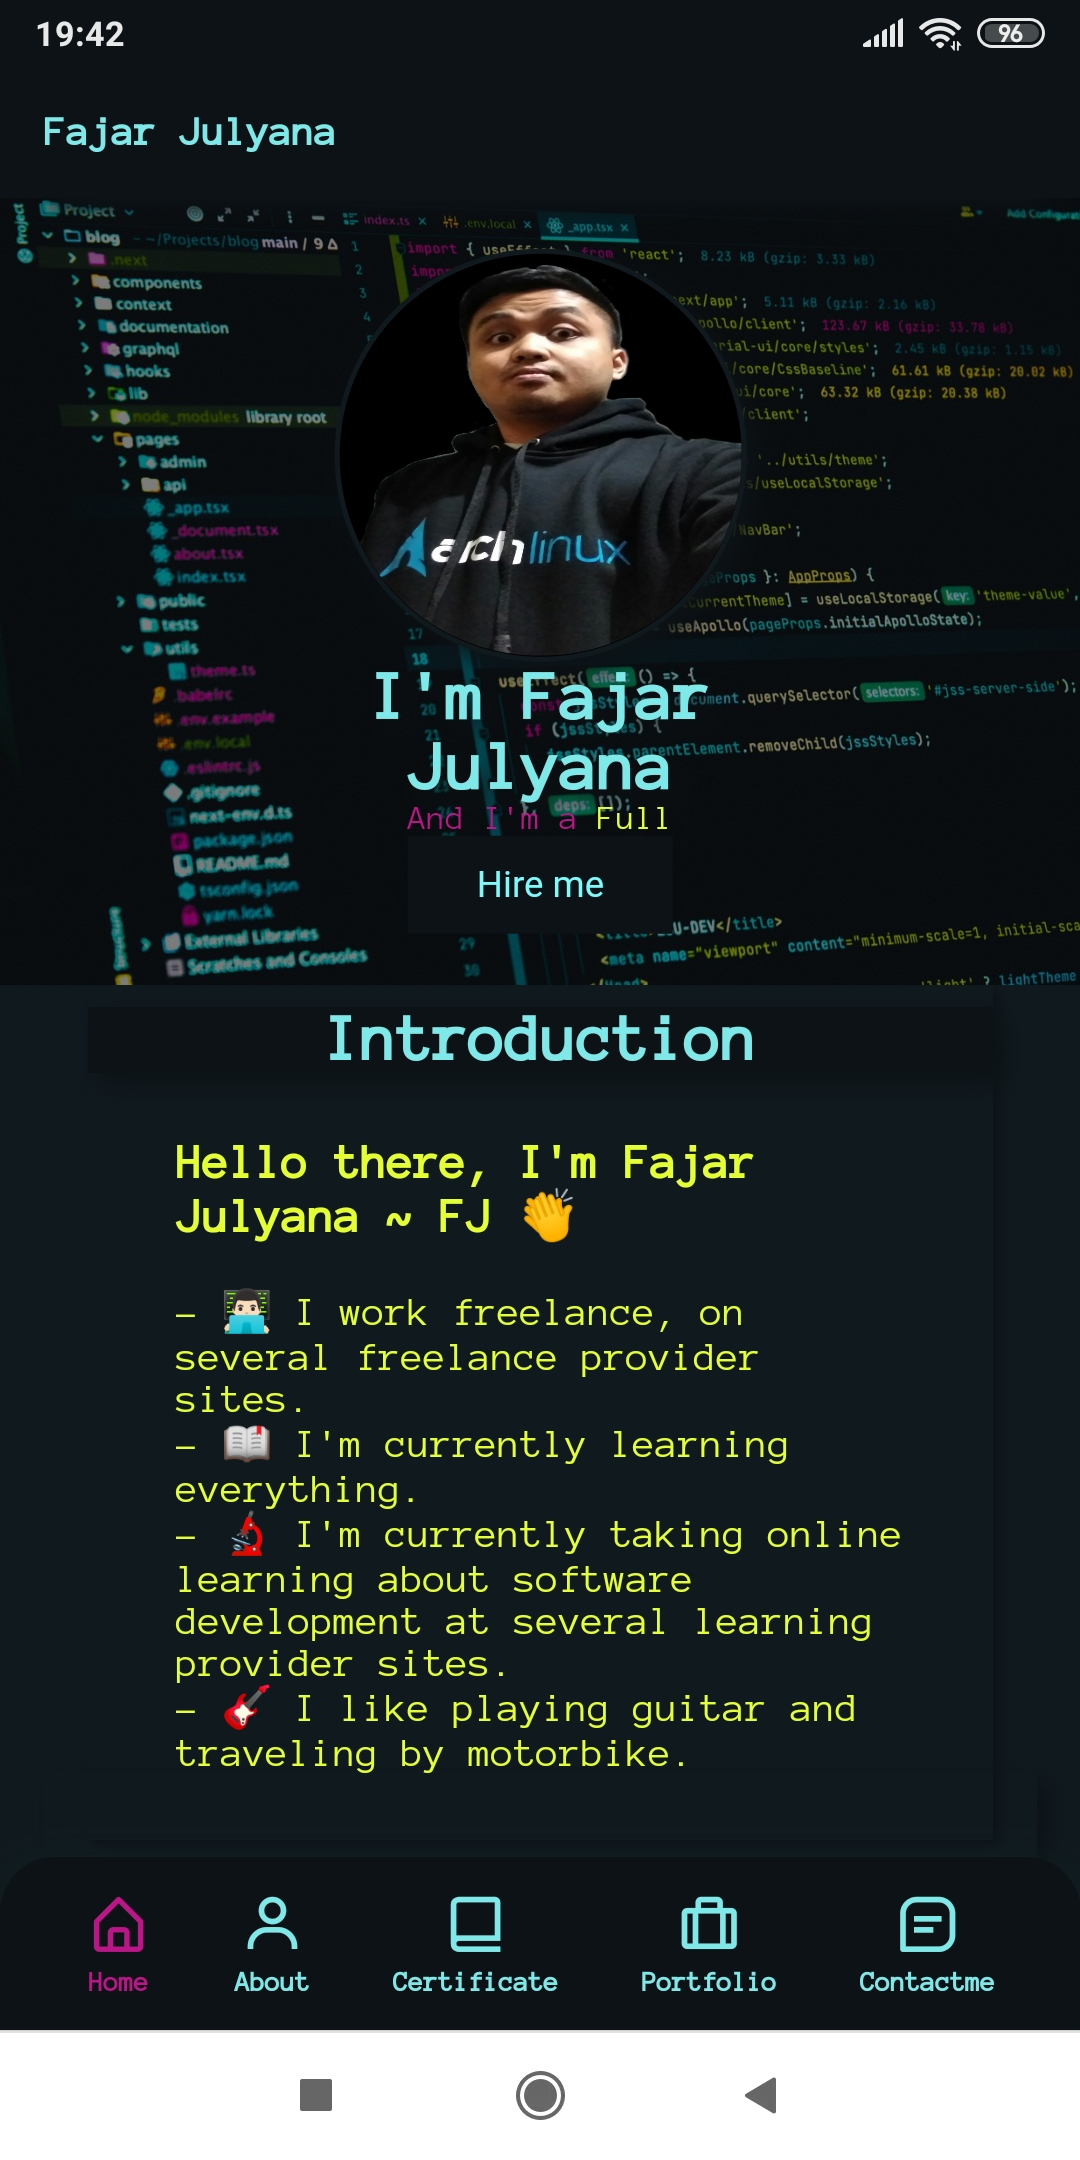
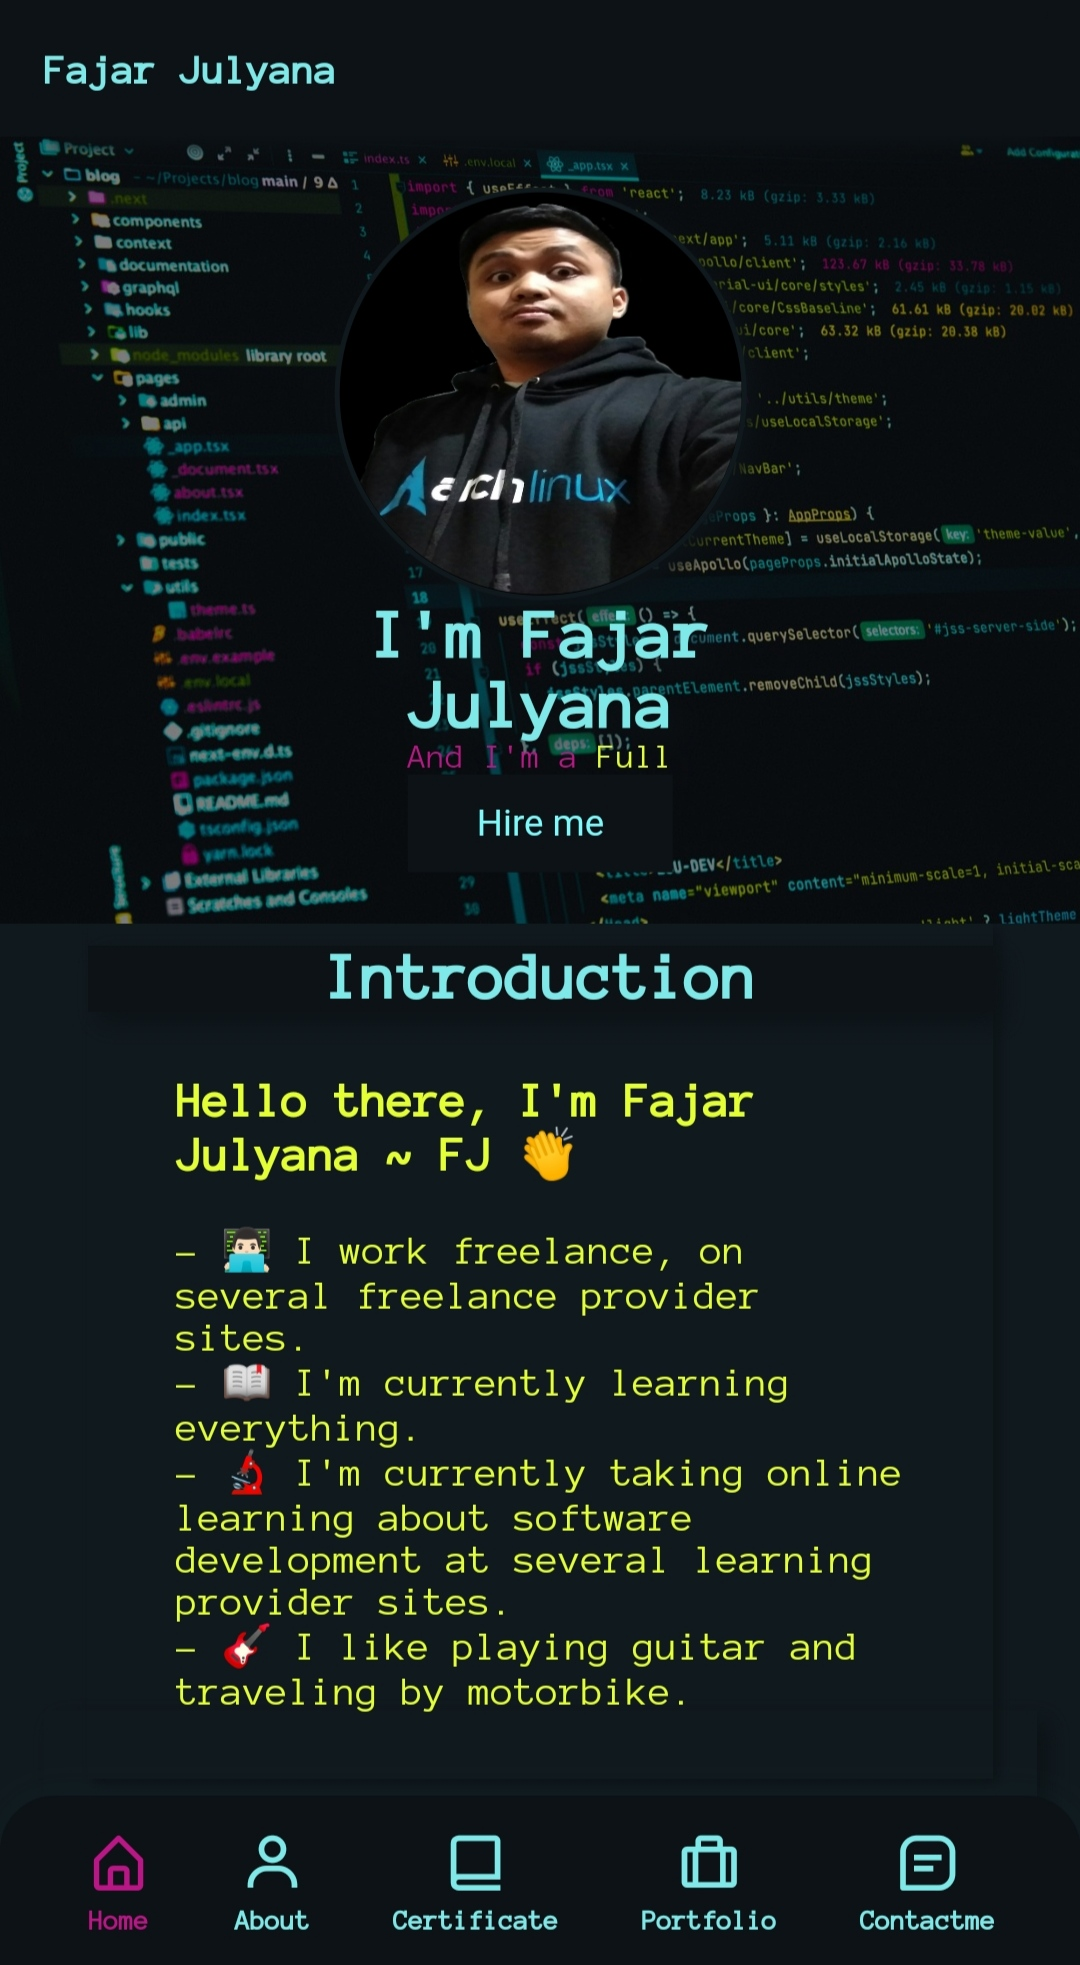
Replace README.md and mobile.jpg

diff --git a/README.md b/README.md
@@ -1,20 +1,21 @@
-# Example Landing Page Portfolio
+### Example Landing Page Portfolio
  
-###### Landing Page Portfolio
-###### Responsive Landing Page
+- Landing Page Portfolio
+- Responsive Landing Page
 
----
-### Screenshot
 
-#### Web Mode
+## Screenshot
+
+### Web Mode
 <img src="web.jpg" width="320">  
 
 ### Mobile Mode
 <img src="mobile.jpg" width="320"> 
----
-### 
+
+### Landing Page
 [Load Landing Page](https://fajarjulyana.github.io)
-
+
+<br/>
 
 ### Connect with me
 [<img align="left" alt="Fajar Julyana | LinkedIn" width="22px" src="https://cdn.jsdelivr.net/npm/simple-icons@v3/icons/linkedin.svg" />][linkedin]
